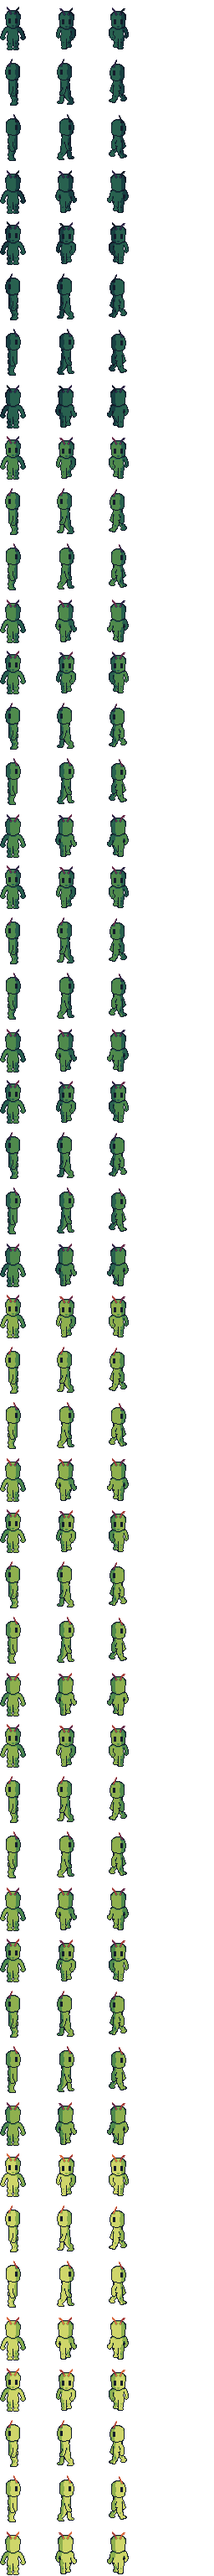
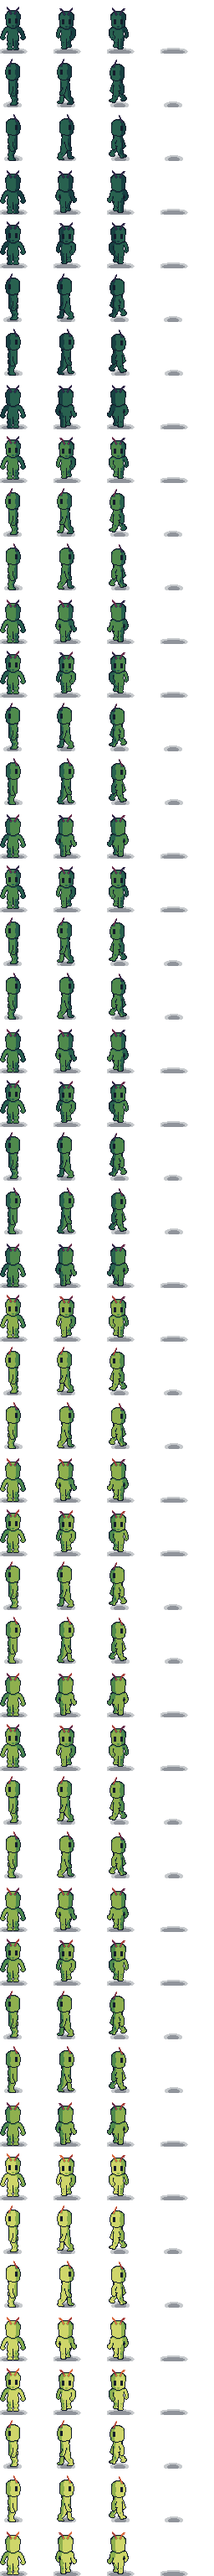
art: cast sheets keep the outline apart, carry their shadow, and a rerun keeps Asi's edits (#69)
From review: a dark part's far side could fall to K, the outline colour; it
now stops one step above. The prototype's contact shadow is back in the
sheet: the engine's own (sprite.ts, /images/shadow-demo.png) never loads.
A run now writes only missing sheets, so Asi's touch-ups survive; naming a
figure builds it again.

diff --git a/art/cast.py b/art/cast.py
@@ -5,15 +5,18 @@
 # and art/check/cast.png, not committed: every figure's front frame on every sheet, at 4x.
 # The drawing and the thin outline stay Asi's. Each colour of a sheet is a part, (ramp, level in daylight); the
 # light where the figure stands moves every part by the same steps, so the sheet's own shading stays one step
-# apart, and the side of the figure away from the light is one step darker. None is the outline: K, never lit.
+# apart, and the side of the figure away from the light is one step darker. None is the outline: K, never lit,
+# and no part goes as dark as K. The contact shadow under the feet is in the sheet, as on the prototype.
 # Asi's files are only read. A frame is read from its left 40 px: the figures are 31 px wide, and saruli.png has
 # 9 stray pixels at the right edge of three frames, which this leaves out.
-# usage (repo root): npm run cast     or: python3 -I art/cast.py
+# A sheet in public/cast/ is Asi's to touch up once it is there, so a run only writes the sheets that are missing;
+# name a figure to build its sheet again over whatever is there.
+# usage (repo root): npm run cast [-- name ...]     or: python3 -I art/cast.py [name ...]
+# Needs Pillow at the version in art/requirements.txt: other versions may move pixels.
 import os, sys
-from PIL import Image
+from PIL import Image, ImageDraw
 sys.path.insert(0, os.path.dirname(os.path.abspath(__file__)))     # python3 -I leaves the script's folder out
-import draw
-from draw import CARD, DESK, FLOOR, GREEN, METAL, PAPER, RED, TEAL, LEVELS, RAMPS, K, rgb
+from draw import CARD, DESK, FLOOR, GREEN, METAL, PAPER, RED, TEAL, WALL, LEVELS, RAMPS, K, rgb
 
 ART = os.path.dirname(os.path.abspath(__file__))
 PUBLIC = os.path.join(ART, '..', 'public')
@@ -55,8 +58,9 @@ def figure(src, table, here, from_right):
             if part is None:
                 yield sx, sy, rgb(K); continue
             far = (sx - xs[0]) < .3 * (xs[-1] - xs[0]) if from_right else (xs[-1] - sx) < .3 * (xs[-1] - xs[0])
+            # a light part (level 2.5 and up) never falls below step 2 on its near side, so it stays light in the dark
             step = max(2 if part[1] >= 2.5 else 1, min(6, int(part[1] + here + .5)))
-            yield sx, sy, rgb(RAMPS[part[0]][step - far])
+            yield sx, sy, rgb(RAMPS[part[0]][max(1, step - far)])
 
 
 def sheets(src, table):
@@ -66,8 +70,11 @@ def sheets(src, table):
     out = Image.new('RGBA', (4 * FRAME, 4 * FRAME * len(LEVELS) * 2))
     for v in range(len(LEVELS) * 2):
         for fy in range(4):
+            x0, _, x1, _ = s.crop((0, fy * FRAME, READ, fy * FRAME + FRAME)).getbbox()     # one shadow per row: no jitter
             for fx in range(4):
                 frame = Image.new('RGBA', (FRAME, FRAME))
+                d = ImageDraw.Draw(frame)                       # the contact shadow: a soft rim and a core
+                d.ellipse((x0 - 2, 57, x1 + 1, 65), fill=(*rgb(K), 60)); d.ellipse((x0 + 2, 59, x1 - 3, 64), fill=(*rgb(K), 120))
                 crop = s.crop((fx * FRAME, fy * FRAME, fx * FRAME + FRAME, fy * FRAME + FRAME)).load()
                 for x, y, c in figure(crop, table, LEVELS[v // 2], v % 2):
                     frame.putpixel((x, y), (*c, 255))
@@ -77,14 +84,18 @@ def sheets(src, table):
 
 if __name__ == '__main__':
     os.makedirs(OUT, exist_ok=True); os.makedirs(os.path.join(ART, 'check'), exist_ok=True)
-    built = {}
+    named = sys.argv[1:]
+    assert set(named) <= set(CAST), 'no such figure: %s' % sorted(set(named) - set(CAST))
     for name, (src, table) in CAST.items():
-        built[name] = sheets(src, table)
-        built[name].save(os.path.join(OUT, name + '.png'))
+        path = os.path.join(OUT, name + '.png')
+        if name in named or not os.path.exists(path):
+            sheets(src, table).save(path); print('cast: built', name)
+        else:
+            print('cast: kept', name, '(name it to build it again)')
     n = len(LEVELS) * 2
-    check = Image.new('RGBA', (n * 36, len(built) * FRAME), rgb(RAMPS[draw.WALL][3]))
-    for i, im in enumerate(built.values()):
+    check = Image.new('RGBA', (n * 36, len(CAST) * FRAME), rgb(RAMPS[WALL][3]))
+    for i, name in enumerate(CAST):
+        im = Image.open(os.path.join(OUT, name + '.png')).convert('RGBA')
         for v in range(n):
             check.alpha_composite(im.crop((0, v * 4 * FRAME, 32, v * 4 * FRAME + FRAME)), (v * 36 + 2, i * FRAME))
     check.resize((check.width * 4, check.height * 4), Image.NEAREST).save(os.path.join(ART, 'check', 'cast.png'))
-    print('cast: %s, %d sheets each, into %s' % (', '.join(built), n, os.path.normpath(OUT)))
